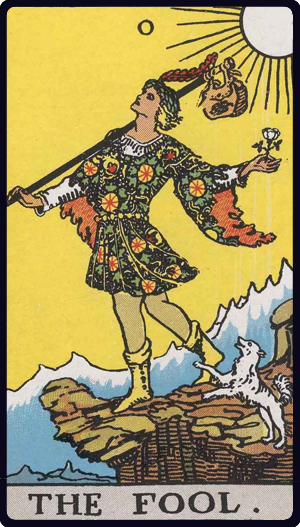
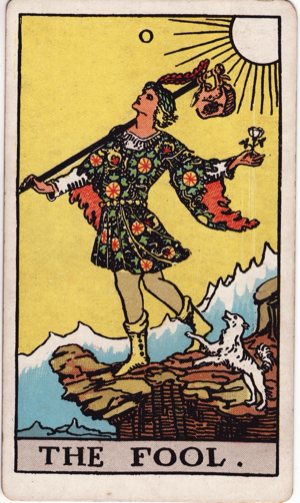
feat: replace major arcana images with 1909 RWS public domain scans

diff --git a/img/SOURCE.md b/img/SOURCE.md
@@ -1,0 +1,8 @@
+# Major Arcana Image Source
+
+- **Deck**: 1909 Rider-Waite-Smith Tarot (Major Arcana 00–21)
+- **Illustrator**: Pamela Colman Smith (1878–1951), directed by Arthur Edward Waite
+- **Publisher**: William Rider & Son, London (December 1909)
+- **License**: Public Domain (published in 1909; public domain in the United States and countries where copyright expires 70 years after the author's death)
+- **Source**: Wikimedia Commons (`Category:Rider-Waite-Smith tarot deck (TaionWC)`, `File:RWS Tarot 00 Fool.jpg`..`File:RWS Tarot 21 World.jpg`)
+- **Processing**: Resampled to width 300px PNG (`img/00-TheFool.png`..`img/21-TheWorld.png`) to match the existing file mapping in `script.js`.
